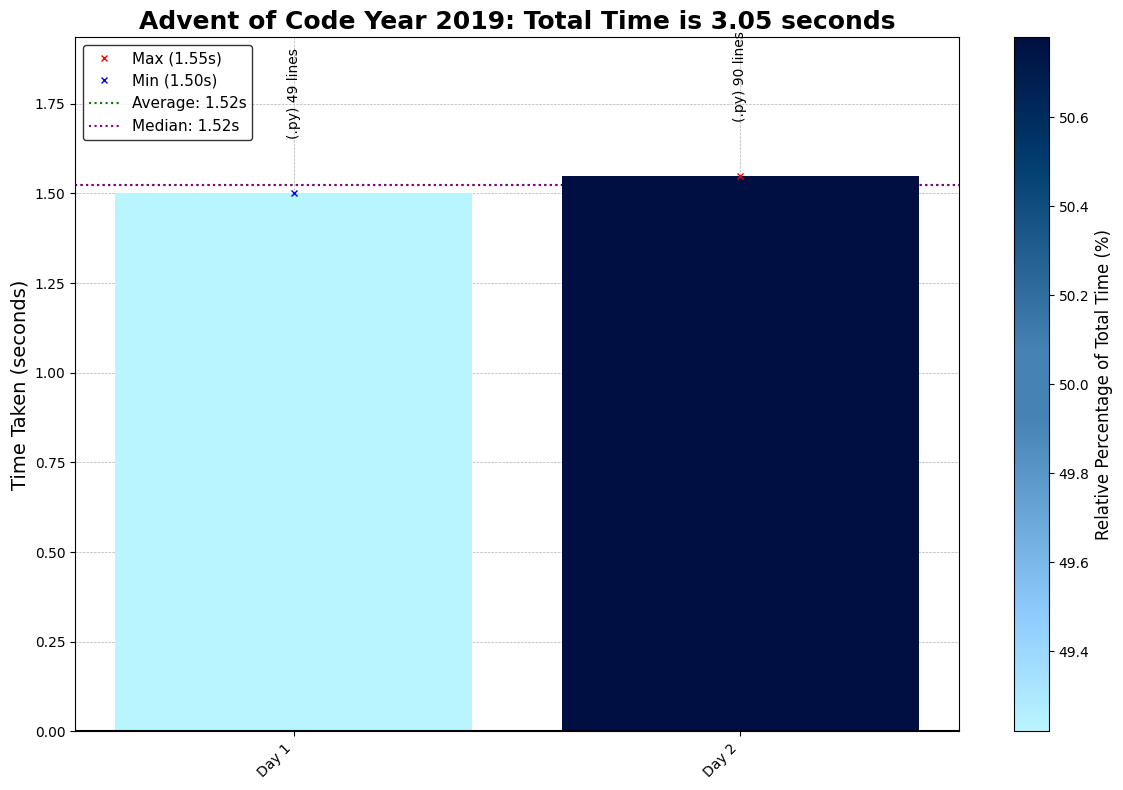
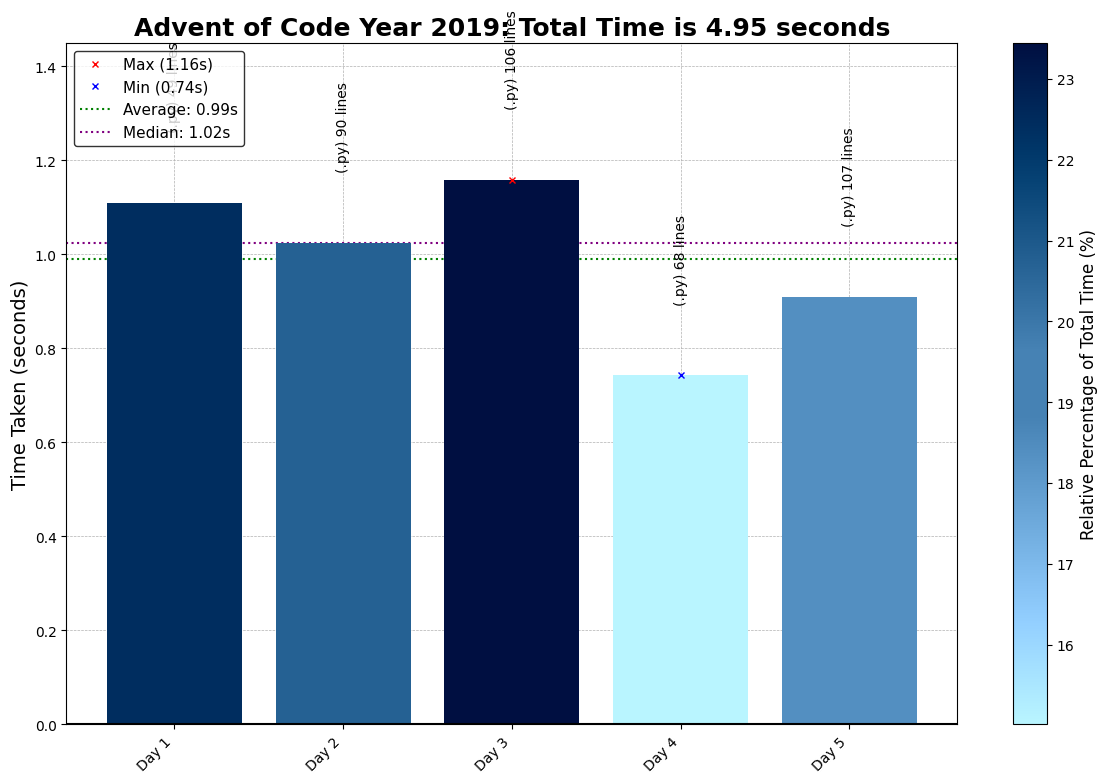
2019 Day 1-5 Full

diff --git a/2019/03/2019Day03.py b/2019/03/2019Day03.py
@@ -1,0 +1,106 @@
+# Advent of Code - Day 3, Year 2019
+# Solution Started: Nov 17, 2024
+# Puzzle Link: https://adventofcode.com/2019/day/3
+# Solution by: [abbasmoosajee07]
+# Brief: [Tracking Wires]
+
+#!/usr/bin/env python3
+
+import os, re, copy
+import numpy as np
+import pandas as pd
+import matplotlib.pyplot as plt
+
+# Load the input data from the specified file path
+D03_file = "Day03_input.txt"
+D03_file_path = os.path.join(os.path.dirname(os.path.abspath(__file__)), D03_file)
+
+# Read and sort input data into a grid
+with open(D03_file_path) as file:
+    input_data = file.read().strip().split('\n')
+
+def split_letters_numbers(string):
+    letters = ''.join([char for char in string if char.isalpha()])
+    numbers = ''.join([char for char in string if char.isdigit()])
+    return letters, int(numbers)
+
+def track_wire_path(movement_list, start):
+    """Track the path of a wire and return a list of visited points with the number of steps"""
+    wire_path = []
+    current_position = start
+    steps = 0
+    wire_path.append((current_position, steps))  # Add the start point with 0 steps
+    
+    for movement in movement_list:
+        dir, mag = split_letters_numbers(movement)
+        if dir == 'U':
+            move = complex(0, mag)  # Move upwards
+        elif dir == 'D':
+            move = complex(0, -mag)  # Move downwards
+        elif dir == 'R':
+            move = complex(mag, 0)  # Move right
+        elif dir == 'L':
+            move = complex(-mag, 0)  # Move left
+        
+        # Move step by step and record the number of steps taken
+        for _ in range(mag):
+            current_position += move / mag  # Move incrementally (step by step)
+            steps += 1
+            wire_path.append((current_position, steps))  # Record each position with the step count
+
+    wire_dict = {pos: steps for pos, steps in wire_path}
+
+    return wire_dict
+
+def fewest_steps_to_intersection(wire_1, wire_2, start):
+
+    # Find intersections (points visited by both wires)
+    intersection_list = set(wire_1.keys()) & set(wire_2.keys())
+
+    # Remove the start point from the intersection set (we don't want to count it)
+    intersection_list.discard(start)
+
+    # Find the fewest steps to any intersection
+    min_steps = float('inf')  # Initialize with a large number
+    for intersection in intersection_list:
+        wire1_steps = wire_1[intersection]
+        wire2_steps = wire_2[intersection]
+        total_steps = wire1_steps + wire2_steps
+        min_steps = min(min_steps, total_steps)
+
+    return min_steps
+
+def closest_intersection(wire_1, wire_2, start):
+    """Find the closest intersection by calculating Manhattan distance"""
+
+    # Find intersections (points visited by both wires)
+    intersections = set(wire_1.keys()) & set(wire_2.keys())
+
+    # Remove the start point from the intersection set (we don't want to count it)
+    intersections.discard(start)
+
+    # Find the Manhattan distance of the closest intersection
+    closest_dist = float('inf')  # Initialize with a large number
+    for intersection in intersections:
+        dist = abs(intersection.real) + abs(intersection.imag)  # Manhattan distance
+        if dist < closest_dist:
+            closest_dist = dist
+
+    return closest_dist
+
+
+start = complex(0, 0)  # Starting point at (0x, 0y)
+wire_1 = input_data[0].split(',')
+wire_2 = input_data[1].split(',')
+
+# Track the paths of both wires
+wire_1_dict = track_wire_path(wire_1, start)
+wire_2_dict = track_wire_path(wire_2, start)
+
+# Find the closest intersection
+closest_dist = closest_intersection(wire_1_dict, wire_2_dict, start)
+print(f"Part 1: {int(closest_dist)}")
+
+# Find the fewest steps to intersection
+fewest_steps = fewest_steps_to_intersection(wire_1_dict, wire_2_dict, start)
+print(f"Part 2: {fewest_steps}")

diff --git a/2019/04/2019Day04.py b/2019/04/2019Day04.py
@@ -1,0 +1,68 @@
+# Advent of Code - Day 4, Year 2019
+# Solution Started: Nov 17, 2024
+# Puzzle Link: https://adventofcode.com/2019/day/4
+# Solution by: [abbasmoosajee07]
+# Brief: [Counting Valid Passwords]
+
+#!/usr/bin/env python3
+
+import os, re, copy
+import numpy as np
+import pandas as pd
+from collections import Counter
+
+# Load the input data from the specified file path
+D04_file = "Day04_input.txt"
+D04_file_path = os.path.join(os.path.dirname(os.path.abspath(__file__)), D04_file)
+
+# Read and sort input data into a grid
+with open(D04_file_path) as file:
+    input_data = file.read().strip().split('\n')
+
+def check_valid_password(number):
+    # Convert the number to a string for digit manipulation
+    num_str = str(number)
+    
+    # Check if the number has exactly 6 digits
+    if len(num_str) != 6:
+        return [0, 0]
+    
+    has_adjacent = False  # To check for at least one pair of identical consecutive digits
+    
+    # Iterate through the digits to check conditions
+    for i in range(1, len(num_str)):
+        # Check if digits decrease (non-increasing order invalidates the password)
+        if num_str[i] < num_str[i - 1]:
+            return [0, 0]
+        # Check for adjacent digits
+        if num_str[i] == num_str[i - 1]:
+            has_adjacent = True
+
+    # The password is valid if there's at least one pair of identical digits
+    if has_adjacent:
+        num_count = Counter(num_str)
+        if 2 in num_count.values():
+            return [1, 1]
+        else:
+            return [1, 0]
+    else:
+        return [0, 0]
+
+def count_valid_password(min_num, max_num):
+    count_p1 = 0
+    count_p2 = 0
+
+    for num in range(min_num, max_num, 1):
+        valid_password = check_valid_password(num)
+        count_p1 += valid_password[0]
+        count_p2 += valid_password[1]
+
+    return count_p1, count_p2
+
+num_range = input_data[0].split('-')
+min_num = int(num_range[0])
+max_num = int(num_range[1])
+
+ans_p1, ans_p2 = count_valid_password(min_num, max_num)
+print(f"Part 1: {ans_p1}")
+print(f"Part 2: {ans_p2}")

diff --git a/TemplateCode.py b/TemplateCode.py
@@ -7,7 +7,7 @@
 import os, sys, time
 
 # Default values for the arguments
-DEFAULT_DAY = 3  # Default Day as '01'
+DEFAULT_DAY = 5  # Default Day as '01'
 DEFAULT_YEAR = 2019
 DEFAULT_YEAR_SOLVE = 2024
 DEFAULT_AUTHOR = 'abbasmoosajee07'
@@ -58,7 +58,7 @@ if not os.path.exists(python_file_path):
     # Define the content of the Python script with dynamic day and year
     python_script_content = f'''# Advent of Code - Day {Day}, Year {Year}
 # Solution Started: {month} {day}, {year}
-# Puzzle Link: https://adventofcode.com/{Year}/day/{Day}  # Web link without padding
+# Puzzle Link: https://adventofcode.com/{Year}/day/{Day}
 # Solution by: [{Author}]
 # Brief: [Code/Problem Description]
 

diff --git a/2019/02/2019Day02.py b/2019/02/2019Day02.py
@@ -1,6 +1,6 @@
 # Advent of Code - Day 2, Year 2019
 # Solution Started: Nov 17, 2024
-# Puzzle Link: https://adventofcode.com/2019/day/2  # Web link without padding
+# Puzzle Link: https://adventofcode.com/2019/day/2
 # Solution by: [abbasmoosajee07]
 # Brief: [IntCode Computer P1]
 

diff --git a/2019/01/2019Day01.py b/2019/01/2019Day01.py
@@ -1,6 +1,6 @@
 # Advent of Code - Day 1, Year 2019
 # Solution Started: Nov 17, 2024
-# Puzzle Link: https://adventofcode.com/2019/day/1  # Web link without padding
+# Puzzle Link: https://adventofcode.com/2019/day/1
 # Solution by: [abbasmoosajee07]
 # Brief: [Fuel Calculator]
 

diff --git a/2019/README_2019.md b/2019/README_2019.md
@@ -5,10 +5,10 @@ This repository contains coding solutions for the 2019 Advent of Code. Each day'
 ## Day-by-Day Coding Overview
 
 1. **Day 1 - The Tyranny of the Rocket Equation**: Use recursive calculations to compute fuel requirements based on mass.
-2. **Day 2 - 1202 Program Alarm**: Implement a simple Intcode computer, focusing on list manipulation and opcode handling.
+2. **Day 2 - 1202 Program Alarm**: Implement a simple Intcode computer, focusing on list manipulation and opcode handling. `IntCode Computer P1`
 3. **Day 3 - Crossed Wires**: Find intersection points on a grid, emphasizing coordinate mapping and distance calculations.
 4. **Day 4 - Secure Container**: Use constraints on digit sequences to filter potential passwords.
-5. **Day 5 - Sunny with a Chance of Asteroids**: Extend Intcode to handle parameters with multiple modes.
+5. **Day 5 - Sunny with a Chance of Asteroids**: Extend Intcode to handle parameters with multiple modes. `IntCode Computer P2`
 6. **Day 6 - Universal Orbit Map**: Build a tree structure to represent orbits and calculate distances between nodes.
 7. **Day 7 - Amplification Circuit**: Chain Intcode programs with feedback loops to maximize signal output.
 8. **Day 8 - Space Image Format**: Parse layered image data, focusing on frequency counting and grid rendering.
